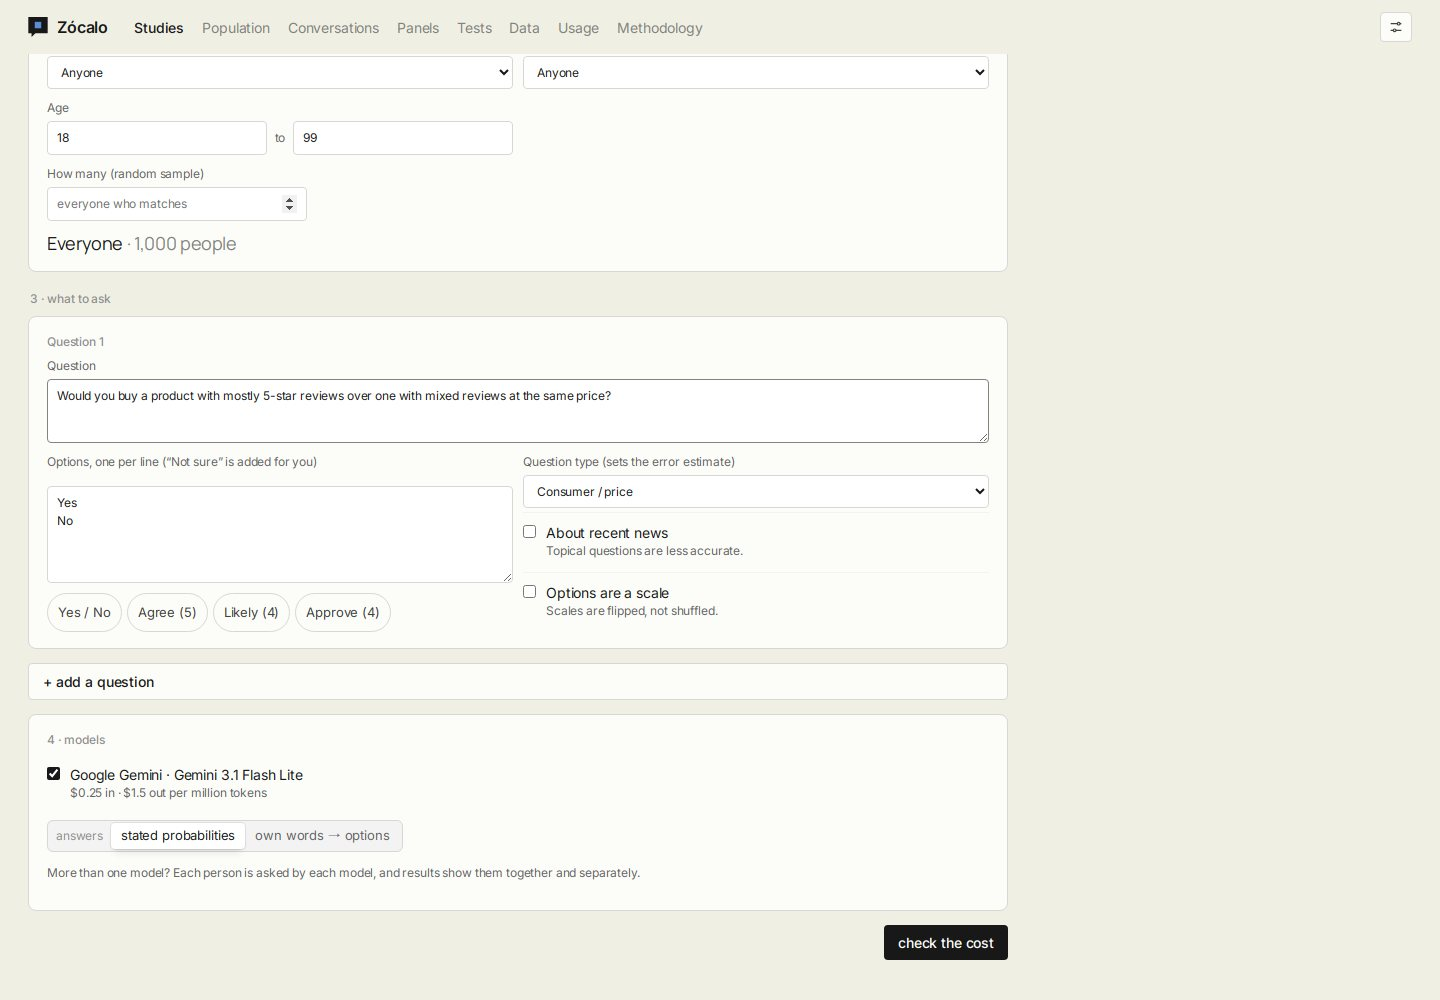
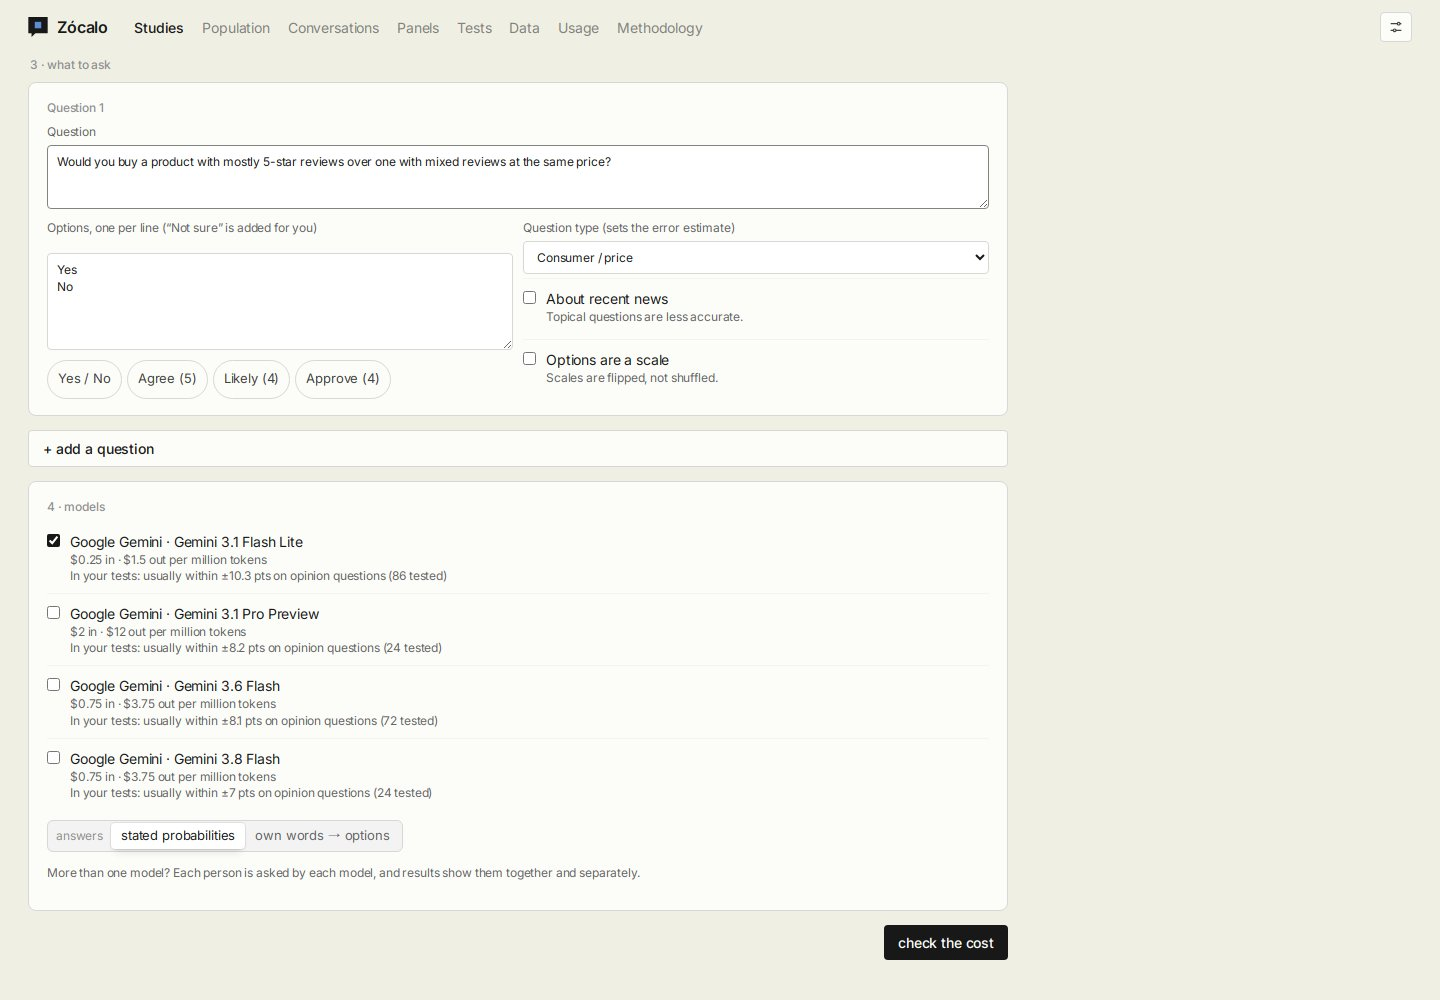
README screenshots retaken: round dots, error per model, matching reasons

Changed region(s): [[0.0312, 0.031, 0.6875, 0.806], [0.375, 0.589, 0.5, 0.62], [0.375, 0.527, 0.5, 0.558]]

diff --git a/README.md b/README.md
@@ -22,7 +22,7 @@
 </p>
 
 <p align="center">
-  <a href="docs/METHODOLOGY.md"><img src="docs/images/zocalo-explore.jpg" alt="A sphere of 300 simulated people as dots, coloured by answer, with two speech bubbles quoting individual people's reasons, next to a results card showing 10% yes, 76% no and 14% not sure with error ranges" width="85%"></a><br>
+  <a href="docs/METHODOLOGY.md"><img src="docs/images/zocalo-explore.jpg" alt="A sphere of 300 simulated people as dots, coloured by answer, with three speech bubbles quoting individual people's reasons, next to a results card showing 14% yes, 66% no and 19% not sure with error ranges" width="85%"></a><br>
   <sub><i>Explore mode: answers pop up as the population turns. The card on the left says how far off these numbers usually are.</i></sub>
 </p>
 
@@ -42,14 +42,14 @@ Taken from a throw-away demo with made-up people (the built-in demo population),
 <table>
 <tr>
 <td width="50%" valign="top">
-<a href="docs/METHODOLOGY.md#4-how-error-is-estimated-and-shown"><img src="docs/images/zocalo-results.jpg" alt="A study's results: bars for yes, no and not sure with error whiskers, a note saying usually within 12 points, and the 300 respondents as dots grouped into one cluster per answer" width="100%"></a><br>
+<a href="docs/METHODOLOGY.md#4-how-error-is-estimated-and-shown"><img src="docs/images/zocalo-results.jpg" alt="A study's results for whether AI will do more good than harm: bars with error whiskers, a note saying usually within 7 points as measured in this install's tests with this model, and the 300 respondents as dots grouped into one cluster per answer" width="100%"></a><br>
 <b>Results with labelled error</b><br>
-<sub>Every share comes with how far off it usually is, and what kind of estimate that is. Each cluster of dots is the people who gave that answer.</sub>
+<sub>Every share comes with how far off it usually is, measured for the model you used, and what kind of estimate that is. Each cluster of dots is the people who gave that answer.</sub>
 </td>
 <td width="50%" valign="top">
 <a href="docs/METHODOLOGY.md#3-kinds-of-study"><img src="docs/images/zocalo-news-test.jpg" alt="A news test: results for the treatment group, then effect bars for treatment minus placebo, placebo minus control, and same person after minus before" width="100%"></a><br>
 <b>News tests with a placebo</b><br>
-<sub>The effect is treatment minus placebo, never the raw change. Here the real effect is about 1 point, while asking the same person twice moves 18.</sub>
+<sub>The effect is treatment minus placebo, never the raw change. Here the news itself moves answers about 5 points, while asking the same person twice moves 17.</sub>
 </td>
 </tr>
 <tr>
@@ -59,7 +59,7 @@ Taken from a throw-away demo with made-up people (the built-in demo population),
 <sub>Click a dot to see why that person answered as they did, and ask follow-ups. Every conversation runs on its own branch, so their record never changes.</sub>
 </td>
 <td width="50%" valign="top">
-<a href="docs/METHODOLOGY.md#1-who-the-people-are"><img src="docs/images/zocalo-population.jpg" alt="A population of 2,000 dots split into clusters by party, with filters for sex, region, party, education and age on the left" width="100%"></a><br>
+<a href="docs/METHODOLOGY.md#1-who-the-people-are"><img src="docs/images/zocalo-population.jpg" alt="A population of 1,000 dots split into clusters by party, with filters for sex, region, party, education and age on the left" width="100%"></a><br>
 <b>Populations from real records</b><br>
 <sub>US, UK and Canadian census records, or real survey respondents in over 100 countries, drawn by their official weights. Filter, then ask just those people.</sub>
 </td>
@@ -78,9 +78,9 @@ Taken from a throw-away demo with made-up people (the built-in demo population),
 </tr>
 <tr>
 <td width="50%" valign="top">
-<a href="docs/METHODOLOGY.md#3-kinds-of-study"><img src="docs/images/zocalo-new-study.jpg" alt="The new study form set to a news test, with fields for the news and a placebo, and options for a same-person group and telling the model it's an experiment" width="100%"></a><br>
+<a href="docs/METHODOLOGY.md#3-kinds-of-study"><img src="docs/images/zocalo-new-study.jpg" alt="The new study form: a question about product reviews with its question type, and four models, each with its price and how far off it was in this install's tests" width="100%"></a><br>
 <b>Surveys, A/B and news tests</b><br>
-<sub>Pick who to ask, write the questions, choose one or more models and see the cost before anything runs.</sub>
+<sub>Pick who to ask, write the questions, choose one or more models (each shows how far off it was in your tests) and see the cost before anything runs.</sub>
 </td>
 <td width="50%" valign="top">
 <a href="docs/METHODOLOGY.md"><img src="docs/images/zocalo-methodology.jpg" alt="The Methodology page, starting with the honest benchmark: Pew's 2026 digital twins were 12.4 points off on average" width="100%"></a><br>
@@ -95,7 +95,7 @@ Taken from a throw-away demo with made-up people (the built-in demo population),
 - **Populations from real data** - US Census ACS records with attitudes matched from CES or GSS; UK and Canada census records; real respondents from WVS, ESS, Afrobarometer, Latinobarómetro, Arab Barometer and Pew; a demo population for trying it out
 - **Facts only** - the model sees a person's facts and their own past answers, never an invented backstory, and never their name
 - **Stated probabilities** - each person gives a probability for every option; options are shuffled per person and "Not sure" is always offered
-- **Labelled error on every number** - measured in your tests, from published evaluations, or flat, and never a textbook margin of error
+- **Labelled error on every number** - measured in your tests for the model you used, from published evaluations, or flat, and never a textbook margin of error
 - **Surveys, A/B tests and news tests** - matched groups; news tests have a placebo arm and an optional same-person group
 - **Talk to anyone** - interviews, focus groups and debates on branches that never change the person's record; drift checks
 - **Closest real polls** - downloaded surveys are indexed, and each question shows the most similar real questions with their real answers
